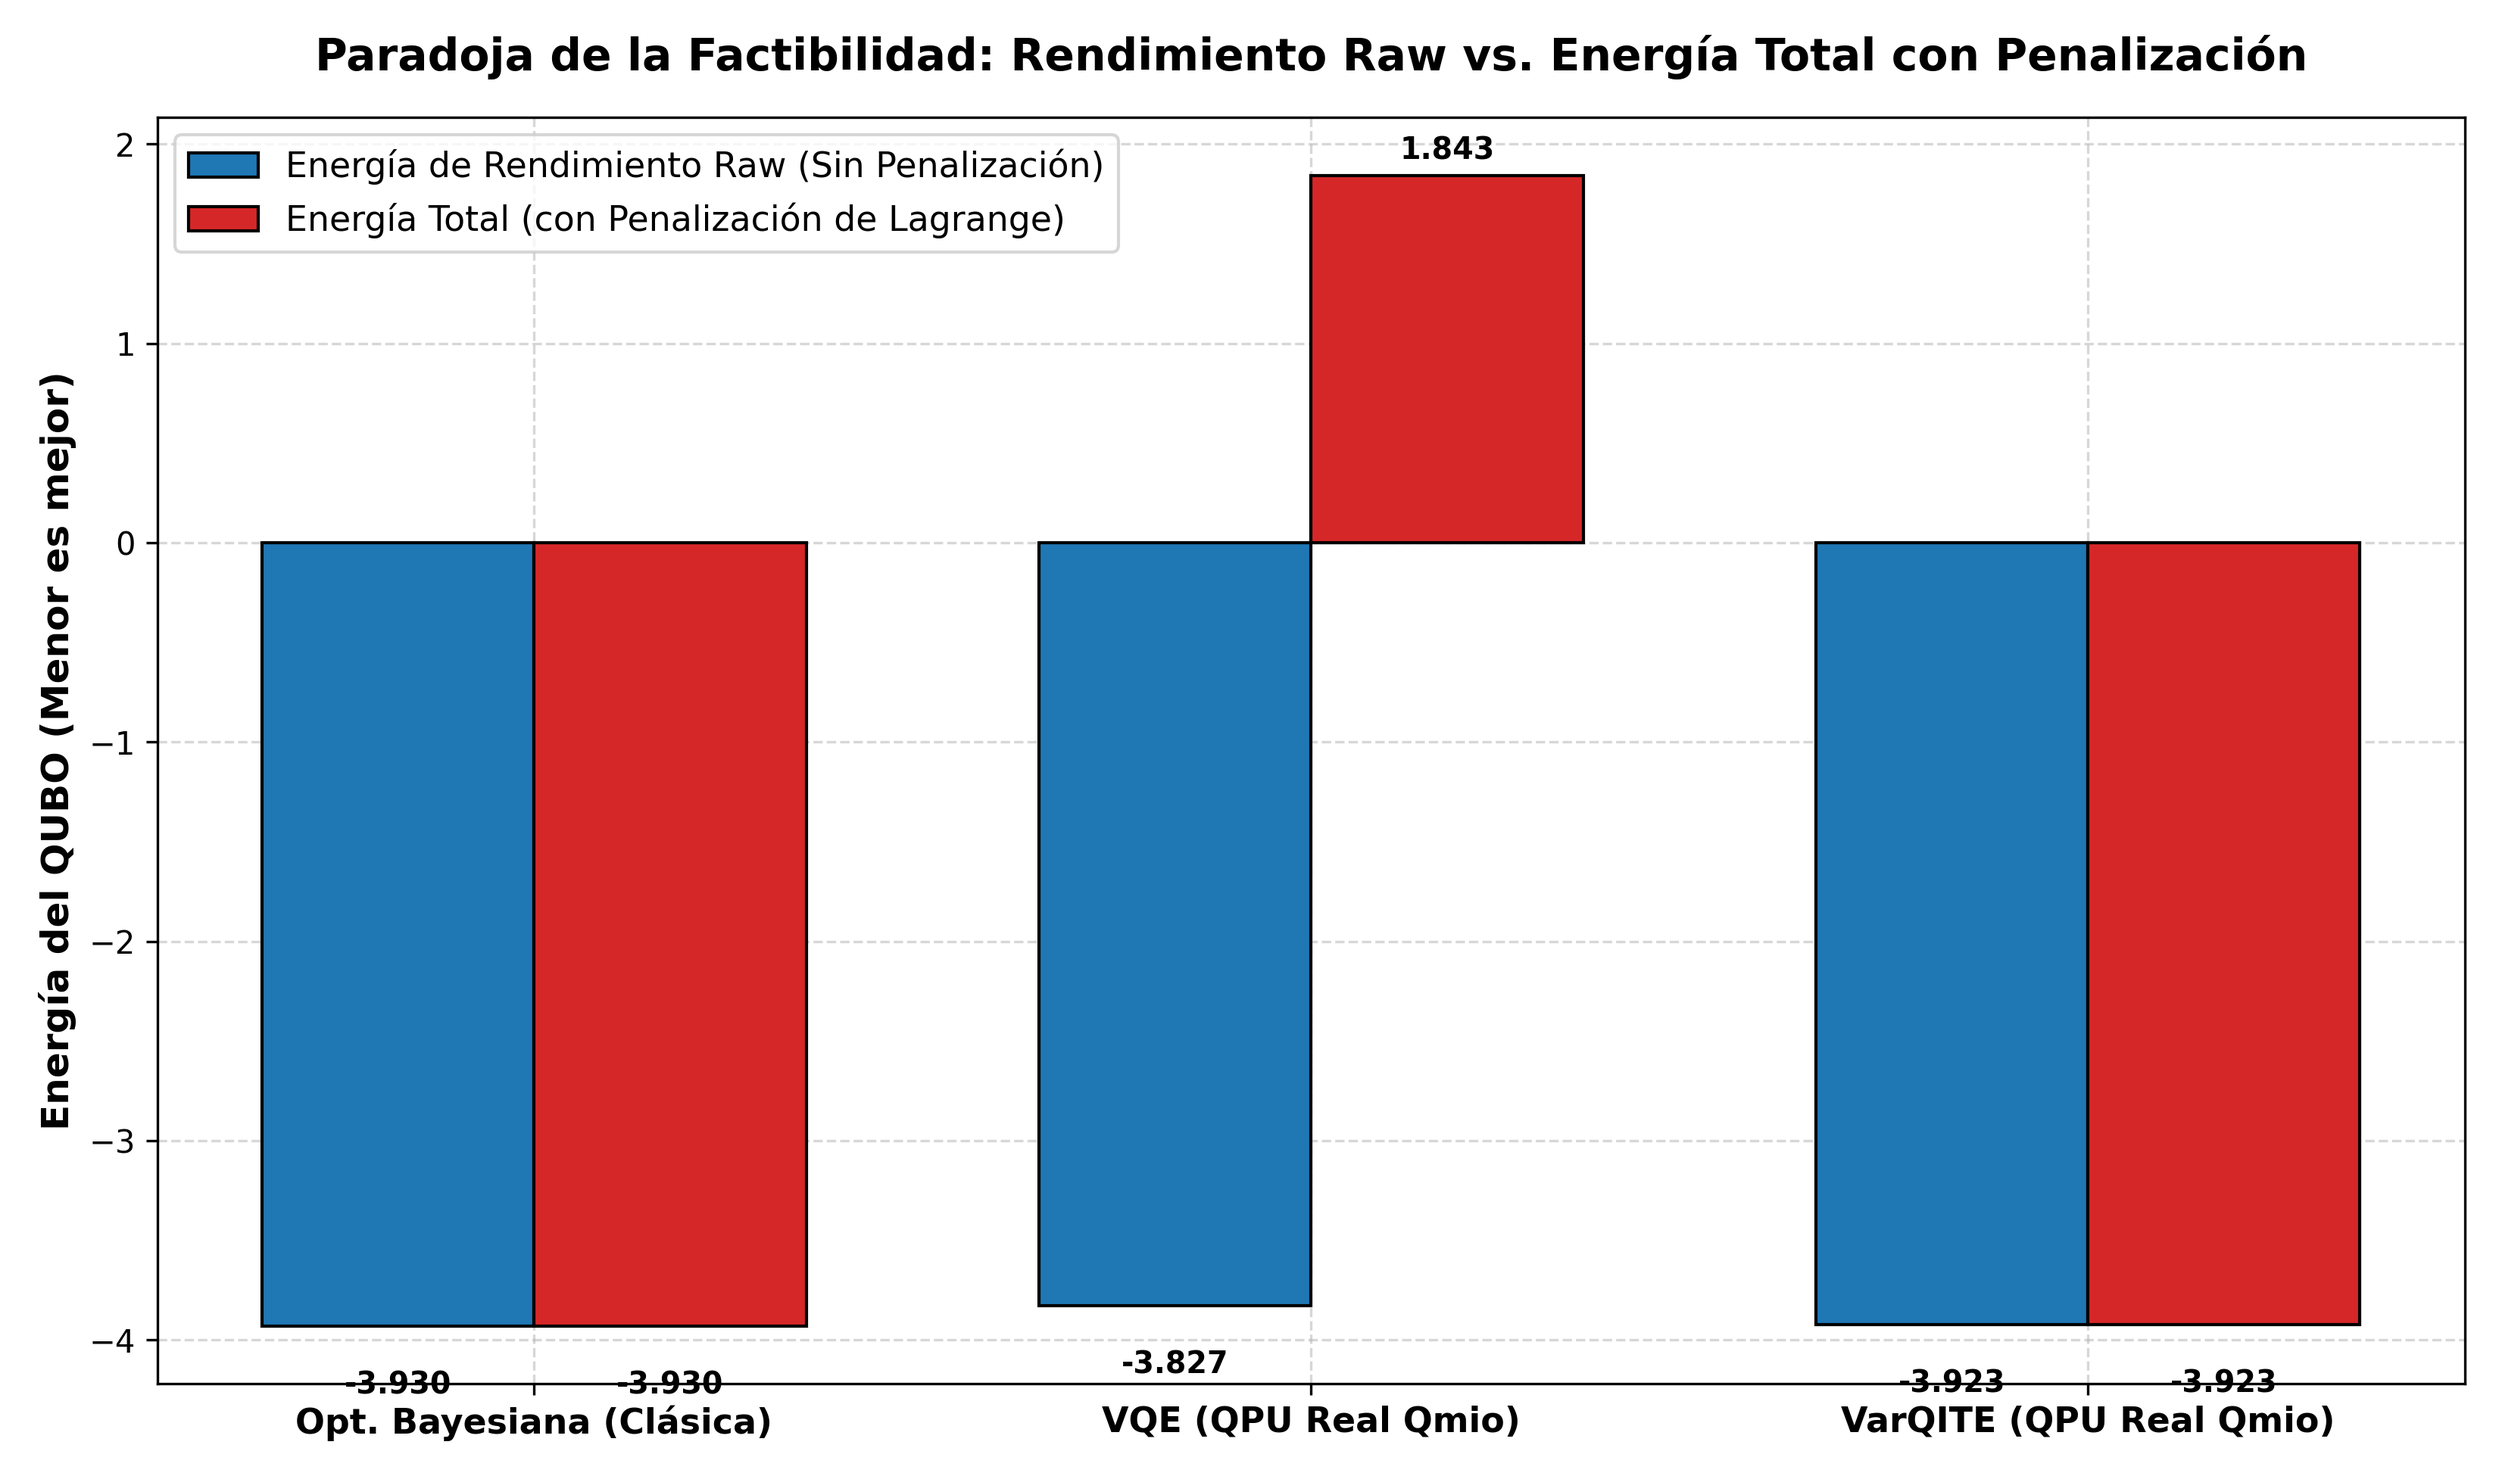
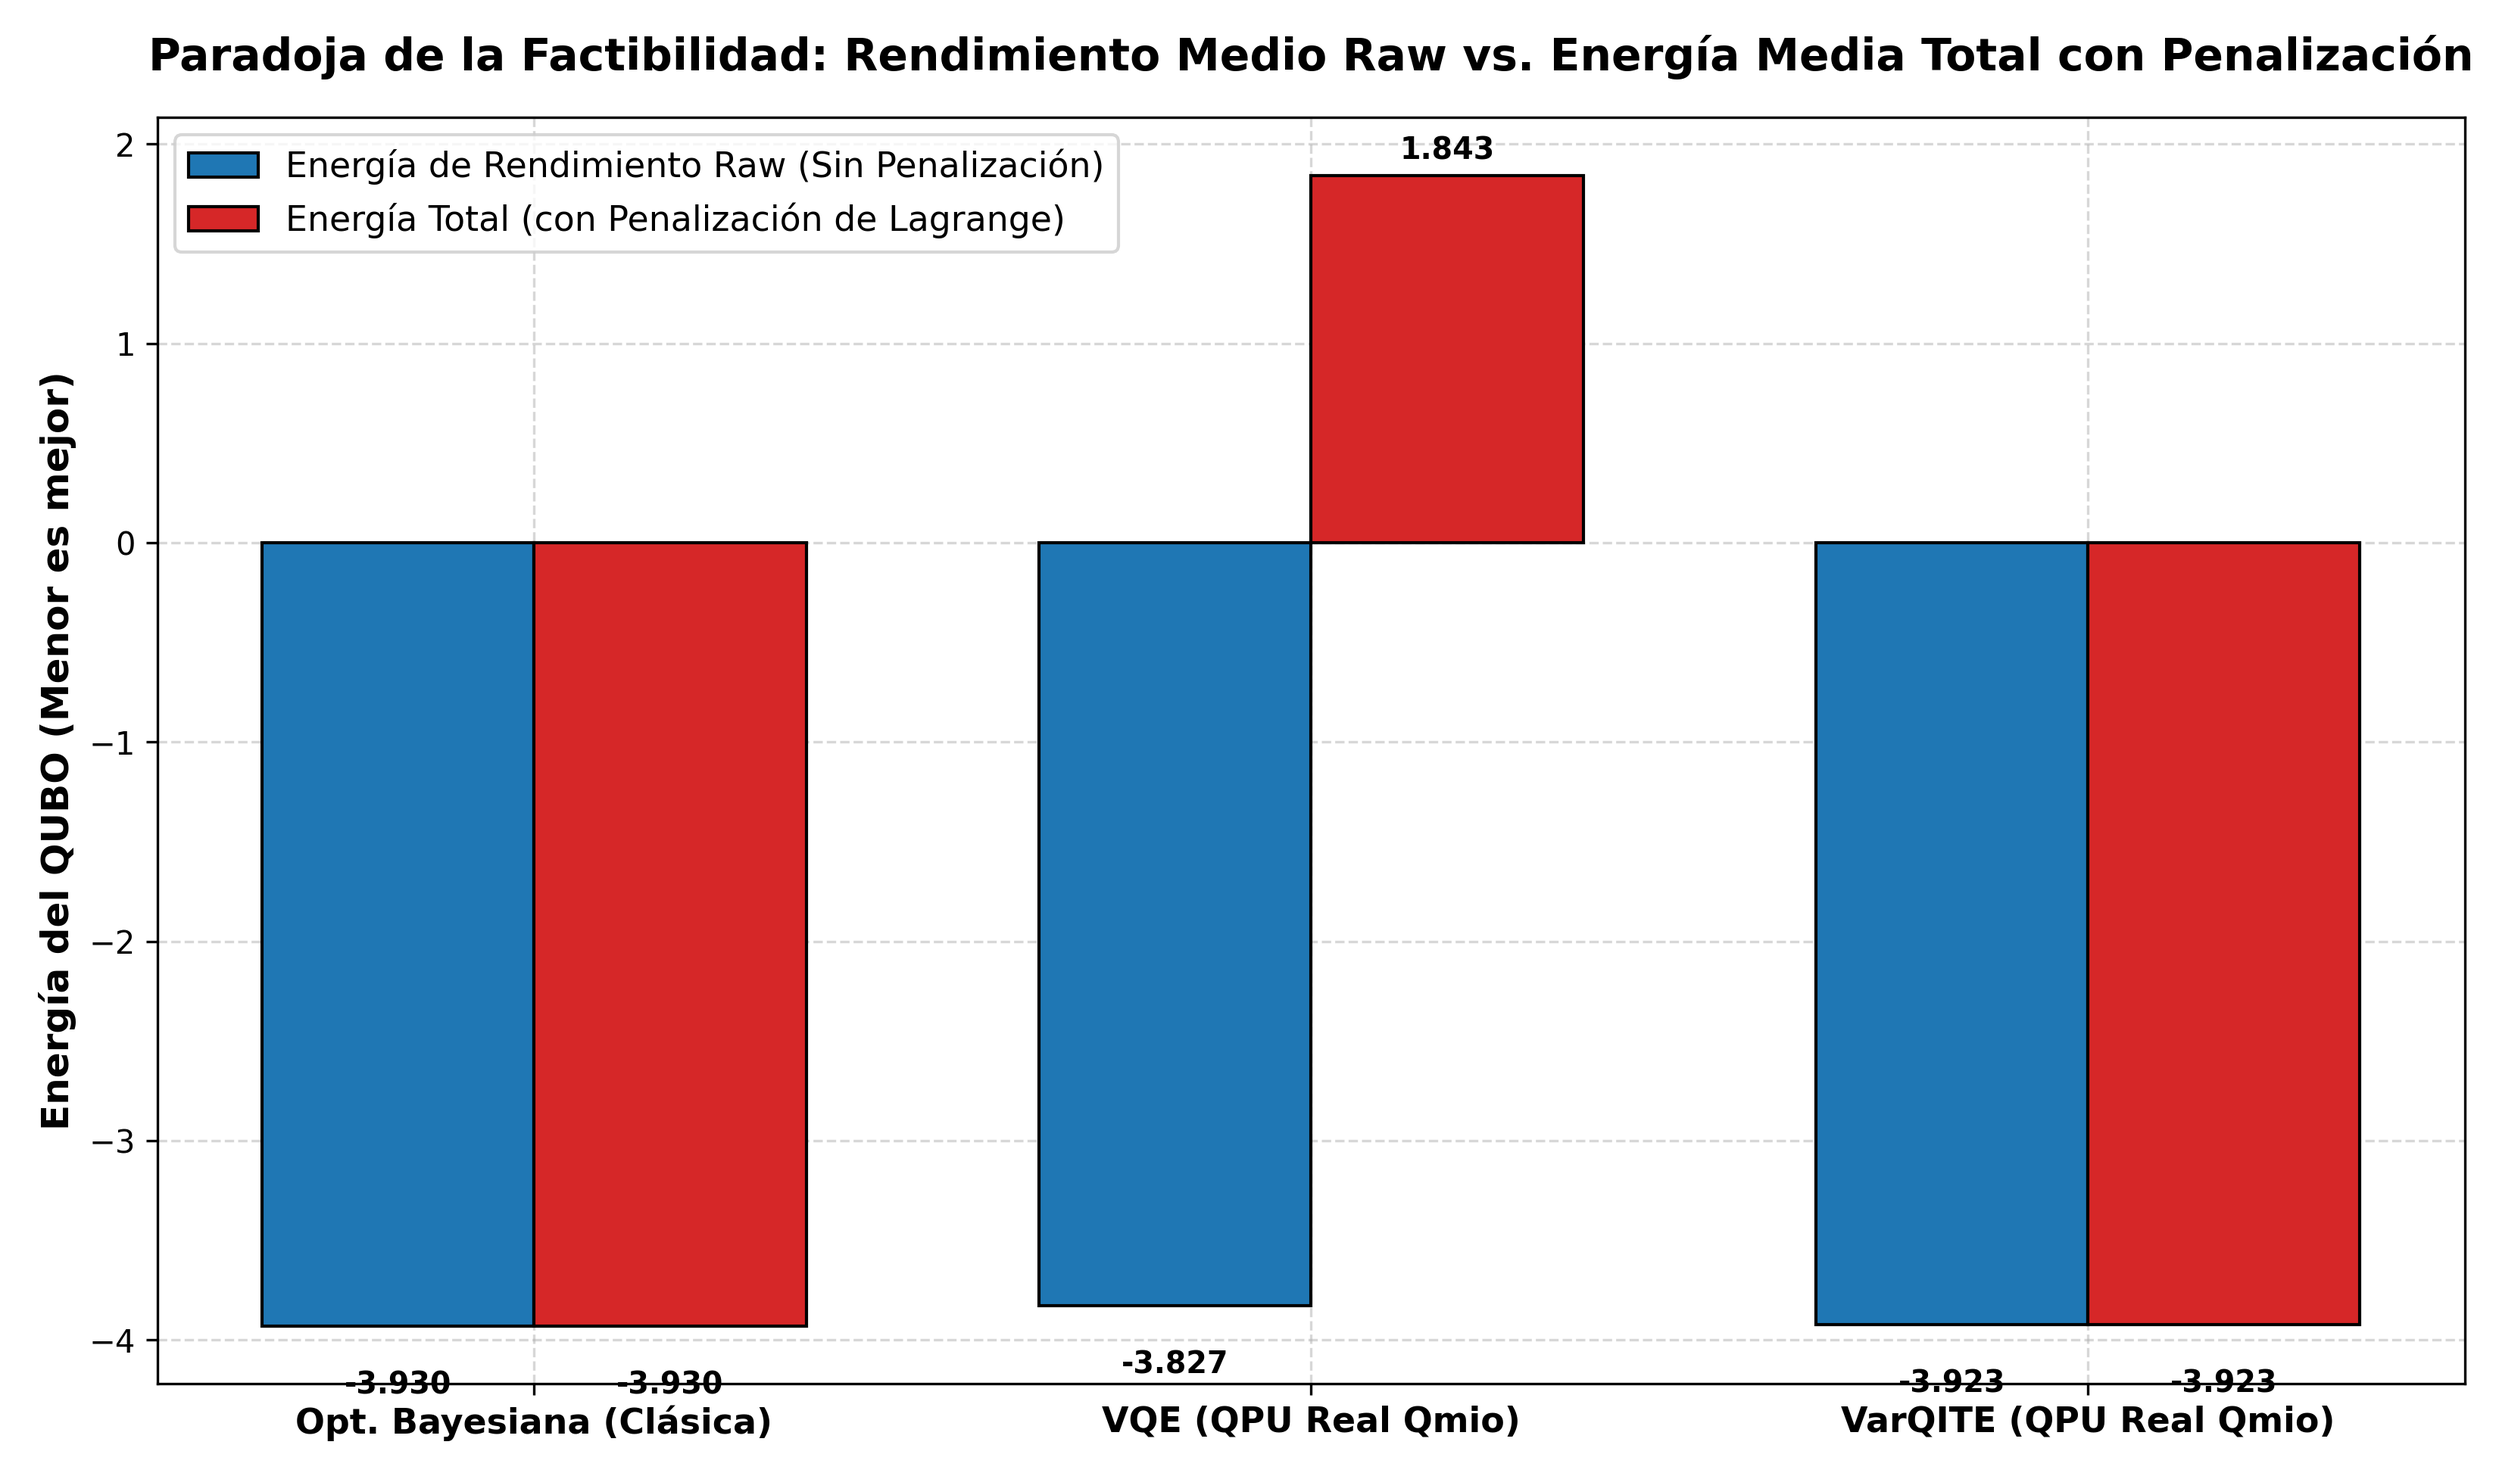
Restore 2-subplot Pareto layout with explicit ticks and label plots with Mean/Average

Changed region(s): [[0.0624, 0.0308, 0.5306, 0.0615], [0.6867, 0.0308, 0.9988, 0.0615]]

diff --git a/src/generate_plots.py b/src/generate_plots.py
@@ -74,7 +74,7 @@ def main():
     bars1 = ax1.bar(categories, times_solver, color=colors, edgecolor='black', width=0.55, zorder=3)
     ax1.set_yscale('log')
     ax1.set_ylabel('Tiempo de Ejecución del Solver (Segundos - Escala Log)', fontsize=11, fontweight='bold')
-    ax1.set_title('A. Tiempo de Optimización / Búsqueda (Solver)', fontsize=12, fontweight='bold', pad=12)
+    ax1.set_title('A. Tiempo Medio de Optimización / Búsqueda (Solver)', fontsize=12, fontweight='bold', pad=12)
     ax1.tick_params(axis='x', labelsize=10)
     
     for bar in bars1:
@@ -94,7 +94,7 @@ def main():
     
     bars2 = ax2.bar(categories, times_hpo, color=colors, edgecolor='black', width=0.55, zorder=3)
     ax2.set_ylabel('Tiempo Real de Entrenamiento de Transformers (Segundos)', fontsize=11, fontweight='bold')
-    ax2.set_title('B. Tiempo Medio de Entrenamiento Real en GPU (5 Folds)', fontsize=12, fontweight='bold', pad=12)
+    ax2.set_title('B. Tiempo Medio de Entrenamiento Real en GPU (5-Fold CV)', fontsize=12, fontweight='bold', pad=12)
     ax2.tick_params(axis='x', labelsize=10)
     
     max_hpo_t = max(times_hpo)
@@ -104,7 +104,7 @@ def main():
         height = bar.get_height()
         ax2.text(bar.get_x() + bar.get_width()/2.0, height + (max_hpo_t * 0.02), f'{height:.1f} s', ha='center', va='bottom', fontsize=9.5, fontweight='bold')
 
-    fig.suptitle('Análisis Comparativo de Tiempos: Optimización de Hiperparámetros vs. Entrenamiento Real', fontsize=14, fontweight='bold', y=0.98)
+    fig.suptitle('Análisis Comparativo de Tiempos Medios: Optimización vs. Entrenamiento Real en GPU', fontsize=14, fontweight='bold', y=0.98)
     plt.tight_layout()
     plt.savefig(os.path.join(res_dir, "comparativa_tiempos.png"), dpi=300)
     plt.close()
@@ -149,7 +149,7 @@ def main():
 
     bars = plt.bar(categories_f, rates, color=colors_f, edgecolor='black', width=0.5, zorder=3)
     plt.ylabel('Tasa de Factibilidad (% de soluciones sin violar One-Hot)', fontsize=12, fontweight='bold')
-    plt.title('Tasa de Factibilidad (QUBO One-Hot) en la QPU Física', fontsize=14, fontweight='bold', pad=15)
+    plt.title('Tasa Media de Factibilidad (QUBO One-Hot) en la QPU Física', fontsize=14, fontweight='bold', pad=15)
     plt.ylim(0, 110)
     plt.xticks(fontsize=11, fontweight='bold')
     
@@ -183,7 +183,7 @@ def main():
     
     plt.ylabel('Tasa de Factibilidad (% de soluciones factibles)', fontsize=12, fontweight='bold')
     plt.xlabel('Nivel de Ruido en Simulación', fontsize=12, fontweight='bold')
-    plt.title('Impacto del Ruido en la Factibilidad: VQE vs. VarQITE', fontsize=14, fontweight='bold', pad=15)
+    plt.title('Impacto del Ruido en la Tasa Media de Factibilidad: VQE vs. VarQITE', fontsize=14, fontweight='bold', pad=15)
     plt.ylim(-5, 105)
     plt.legend(fontsize=11)
     plt.xticks(fontsize=11, fontweight='bold')
@@ -291,7 +291,7 @@ def main():
     plt.yscale('log')
     plt.ylabel('Tiempo de Ejecución (Segundos - Escala Log)', fontsize=12, fontweight='bold')
     plt.xlabel('Nivel de Ruido en Simulación', fontsize=12, fontweight='bold')
-    plt.title('Impacto del Ruido en el Tiempo de Simulación (FT3)', fontsize=14, fontweight='bold', pad=15)
+    plt.title('Impacto del Ruido en el Tiempo Medio de Simulación (FT3)', fontsize=14, fontweight='bold', pad=15)
     plt.legend(fontsize=11)
     plt.xticks(fontsize=11, fontweight='bold')
 
@@ -324,7 +324,7 @@ def main():
     rects2 = plt.bar(x + width/2, total_energies, width, label='Energía Total (con Penalización de Lagrange)', color='#d62728', edgecolor='black', zorder=3)
 
     plt.ylabel('Energía del QUBO (Menor es mejor)', fontsize=12, fontweight='bold')
-    plt.title('Paradoja de la Factibilidad: Rendimiento Raw vs. Energía Total con Penalización', fontsize=14, fontweight='bold', pad=15)
+    plt.title('Paradoja de la Factibilidad: Rendimiento Medio Raw vs. Energía Media Total con Penalización', fontsize=14, fontweight='bold', pad=15)
     plt.xticks(x, categories_d, fontsize=11, fontweight='bold')
     plt.legend(fontsize=11, loc='upper left')
     
@@ -348,10 +348,8 @@ def main():
     plt.savefig(os.path.join(res_dir, "comparativa_energia_desglosada.png"), dpi=300)
     plt.close()
 
-    # --- PLOT 9: PARETO FRONTIER (ACCURACY VS TIME) ---
-    plt.figure(figsize=(11, 7))
-    ax = plt.gca()
-    ax.grid(True, linestyle='--', alpha=0.5, zorder=0, which='both')
+    # --- PLOT 9: PARETO FRONTIER (ACCURACY VS TIME - TWO SUBPLOTS) ---
+    fig, (ax1, ax2) = plt.subplots(1, 2, figsize=(16, 7.5))
     
     reales_csv = os.path.join(res_dir, "resultados_soluciones_reales.csv")
     reales_df = pd.read_csv(reales_csv)
@@ -384,13 +382,10 @@ def main():
             if not df_g.empty:
                 ax_obj.scatter(
                     df_g['Execution_Time_Seconds'], df_g['Final_Accuracy'],
-                    color=g['color'], marker=g['marker'], s=100, edgecolor='black', alpha=0.85,
+                    color=g['color'], marker=g['marker'], s=90, edgecolor='black', alpha=0.85,
                     label=g['label'], zorder=3
                 )
 
-    # Plot all 55 solutions
-    plot_scatter_on_ax(ax, reales_df)
-    
     # Compute Pareto Frontier (minimizing time, maximizing accuracy)
     all_points = list(zip(reales_df['Execution_Time_Seconds'].values, reales_df['Final_Accuracy'].values))
     sorted_points = sorted(all_points, key=lambda x: (x[0], -x[1]))
@@ -401,36 +396,70 @@ def main():
             pareto_front.append(pt)
             max_acc = pt[1]
 
+    ticks_x = [100, 150, 250, 400, 600, 1000, 1600, 2500, 4500, 6000]
+
+    # Subplot 1: All 55 solutions (Vista General)
+    ax1.grid(True, linestyle='--', alpha=0.5, zorder=0, which='both')
+    plot_scatter_on_ax(ax1, reales_df)
+    
     if pareto_front:
         pareto_x, pareto_y = zip(*pareto_front)
-        ax.plot(
+        ax1.plot(
             pareto_x, pareto_y, '--', color='#d62728', linewidth=2.5, alpha=0.9,
             label='Frontera de Pareto (Eficiente)', zorder=4
         )
-        ax.scatter(
-            pareto_x, pareto_y, facecolors='none', edgecolors='#d62728', s=200,
+        ax1.scatter(
+            pareto_x, pareto_y, facecolors='none', edgecolors='#d62728', s=180,
             linewidths=2.2, zorder=5, label='Solución Pareto-Optimal'
         )
 
-    ax.set_xscale('log')
-    ticks_x = [100, 150, 250, 400, 600, 1000, 1600, 2500, 4500, 6000]
-    ax.set_xticks(ticks_x)
-    # Set explicit labels to ensure every tick is printed and detailed at the bottom
-    ax.set_xticklabels([str(t) for t in ticks_x], fontsize=10, fontweight='bold')
+    ax1.set_xscale('log')
+    ax1.set_xticks(ticks_x)
+    ax1.set_xticklabels([str(t) for t in ticks_x], fontsize=10, fontweight='bold')
+    ax1.set_xlim(90, 6800)
+    ax1.set_ylim(0.10, 0.95)
     
-    ax.set_xlim(90, 6800)
-    ax.set_ylim(0.10, 0.95)
+    ticks_y_ax1 = [0.10, 0.20, 0.30, 0.40, 0.50, 0.60, 0.70, 0.80, 0.85, 0.90, 0.95]
+    ax1.set_yticks(ticks_y_ax1)
+    ax1.set_yticklabels([f"{val:.2f}" for val in ticks_y_ax1], fontsize=10, fontweight='bold')
     
-    # Custom y-ticks to make it very clear
-    ticks_y = [0.10, 0.20, 0.30, 0.40, 0.50, 0.60, 0.70, 0.80, 0.82, 0.84, 0.86, 0.88, 0.90, 0.92, 0.94]
-    ax.set_yticks(ticks_y)
-    ax.set_yticklabels([f"{val:.2f}" for val in ticks_y], fontsize=10, fontweight='bold')
+    ax1.set_xlabel('Tiempo Medio de Entrenamiento (Segundos - Escala Log)', fontsize=11, fontweight='bold')
+    ax1.set_ylabel('Precisión Media del Transformer (Accuracy)', fontsize=11, fontweight='bold')
+    ax1.set_title('A. Vista General (Todas las 55 Soluciones - Medias 5-Fold)', fontsize=12, fontweight='bold', pad=12)
+    ax1.legend(fontsize=9, loc='lower left')
 
-    ax.set_xlabel('Tiempo de Entrenamiento en GPU (Segundos - Escala Logarítmica)', fontsize=12, fontweight='bold')
-    ax.set_ylabel('Precisión Real del Transformer (Accuracy)', fontsize=12, fontweight='bold')
-    ax.set_title('Frontera de Pareto HPO: Compromiso entre Precisión Real y Tiempo de Entrenamiento', fontsize=14, fontweight='bold', pad=15)
-    ax.legend(fontsize=10, loc='lower left')
+    # Subplot 2: Zoom on the Pareto frontier (Accuracy > 0.70)
+    ax2.grid(True, linestyle='--', alpha=0.5, zorder=0, which='both')
+    filtered_df = reales_df[reales_df['Final_Accuracy'] > 0.70]
+    plot_scatter_on_ax(ax2, filtered_df)
     
+    if pareto_front:
+        pareto_x, pareto_y = zip(*pareto_front)
+        ax2.plot(
+            pareto_x, pareto_y, '--', color='#d62728', linewidth=2.5, alpha=0.9,
+            label='Frontera de Pareto (Eficiente)', zorder=4
+        )
+        ax2.scatter(
+            pareto_x, pareto_y, facecolors='none', edgecolors='#d62728', s=180,
+            linewidths=2.2, zorder=5, label='Solución Pareto-Optimal'
+        )
+
+    ax2.set_xscale('log')
+    ax2.set_xticks(ticks_x)
+    ax2.set_xticklabels([str(t) for t in ticks_x], fontsize=10, fontweight='bold')
+    ax2.set_xlim(90, 6800)
+    ax2.set_ylim(0.78, 0.90)
+    
+    ticks_y_ax2 = [0.78, 0.80, 0.82, 0.84, 0.86, 0.88, 0.90]
+    ax2.set_yticks(ticks_y_ax2)
+    ax2.set_yticklabels([f"{val:.2f}" for val in ticks_y_ax2], fontsize=10, fontweight='bold')
+    
+    ax2.set_xlabel('Tiempo Medio de Entrenamiento (Segundos - Escala Log)', fontsize=11, fontweight='bold')
+    ax2.set_ylabel('Precisión Media del Transformer (Accuracy)', fontsize=11, fontweight='bold')
+    ax2.set_title('B. Detalle de la Frontera de Pareto (Zoom - Medias 5-Fold)', fontsize=12, fontweight='bold', pad=12)
+    ax2.legend(fontsize=9, loc='lower right')
+
+    fig.suptitle('Frontera de Pareto HPO: Compromiso entre Precisión Media y Tiempo Medio de Entrenamiento (5-Fold CV)', fontsize=14, fontweight='bold', y=0.98)
     plt.tight_layout()
     plt.savefig(os.path.join(res_dir, "frontera_pareto.png"), dpi=300)
     plt.close()
